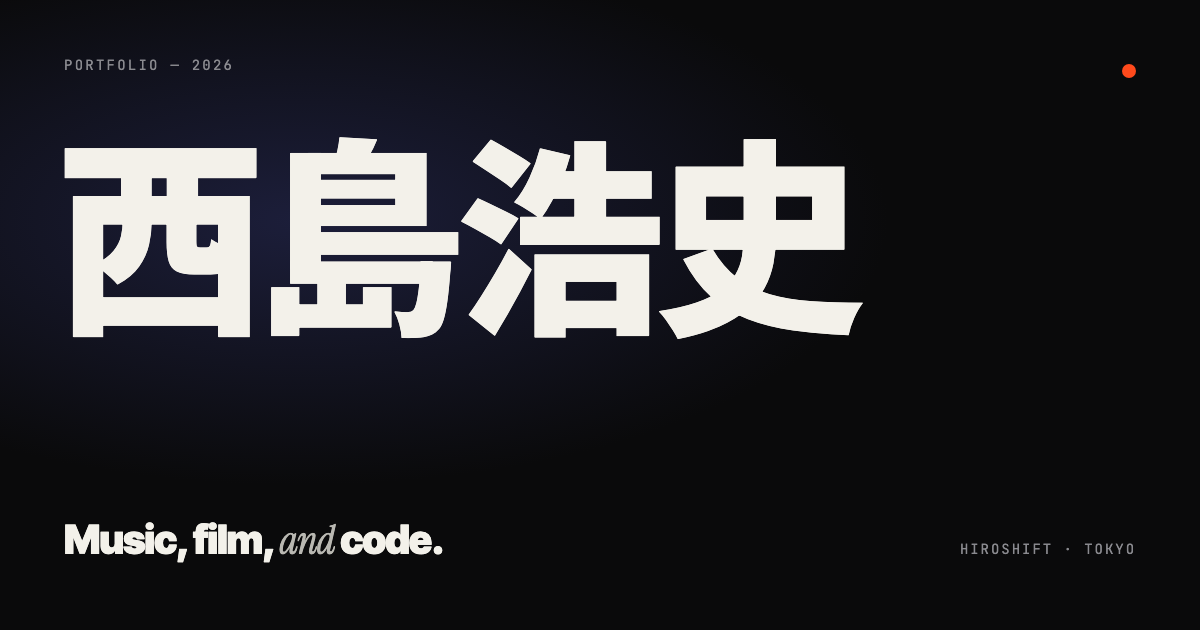
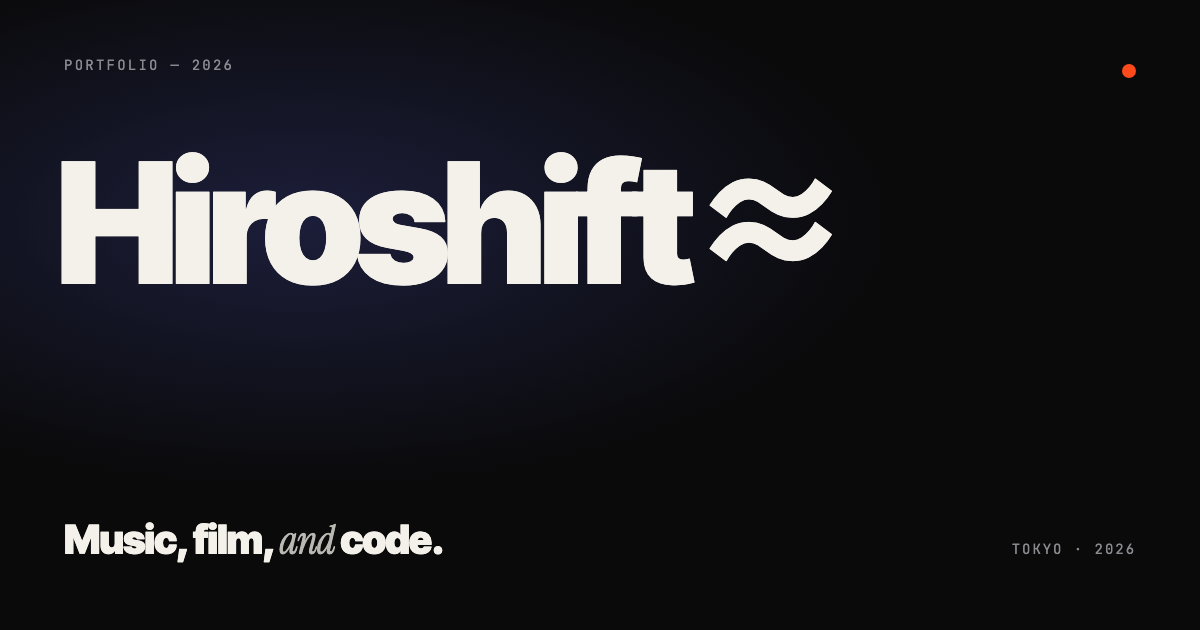
Hiroshift≈ 名義に統一・本名と顔写真を外す

Changed region(s): [[0.0308, 0.2111, 0.74, 0.5429], [0.8017, 0.8444, 0.9558, 0.8746]]

diff --git a/index.html b/index.html
@@ -3,12 +3,12 @@
 <head>
 <meta charset="UTF-8">
 <meta name="viewport" content="width=device-width, initial-scale=1.0, viewport-fit=cover">
-<title>西島浩史 — Hiroshift</title>
-<meta name="description" content="音楽、映像、そしてコード。西島浩史（Hiroshift）のポートフォリオ。AIプロトタイピングとWebアプリ開発、個人で作ってきたもの。">
+<title>Hiroshift≈</title>
+<meta name="description" content="音楽、映像、そしてコード。Hiroshift≈ のポートフォリオ。AIプロトタイピングとWebアプリ開発、個人で作ってきたもの。">
 <link rel="canonical" href="https://hiroshift.github.io/hiroshift-2026/">
 <meta property="og:type" content="website">
-<meta property="og:title" content="西島浩史 — Hiroshift">
-<meta property="og:description" content="音楽、映像、そしてコード。西島浩史（Hiroshift）のポートフォリオ。">
+<meta property="og:title" content="Hiroshift≈">
+<meta property="og:description" content="音楽、映像、そしてコード。Hiroshift≈ のポートフォリオ。">
 <meta property="og:url" content="https://hiroshift.github.io/hiroshift-2026/">
 <meta property="og:image" content="https://hiroshift.github.io/hiroshift-2026/assets/og.png">
 <meta property="og:image:width" content="1200"><meta property="og:image:height" content="630">
@@ -67,7 +67,7 @@ html.no-js .loader,html.reduce .loader{display:none}
 .hero .body{display:grid;align-content:end;padding-top:clamp(120px,18vh,200px);padding-bottom:clamp(28px,4vw,56px)}
 .hero .kicker{display:flex;gap:18px;align-items:center;color:var(--fog-2);margin-bottom:clamp(18px,2vw,28px)}
 .hero .kicker i{display:block;width:40px;height:1px;background:var(--fog)}
-.hero h1{font-family:var(--disp);font-size:clamp(64px,13.5vw,228px);line-height:.88;letter-spacing:-.045em;font-weight:900;display:flex;flex-wrap:wrap;column-gap:.12em}
+.hero h1{font-family:var(--disp);font-size:clamp(56px,11.5vw,200px);line-height:.88;letter-spacing:-.045em;font-weight:900;display:flex;flex-wrap:wrap;column-gap:.12em}
 .hero h1 .w{display:inline-flex;overflow:hidden;padding-bottom:.06em}
 .hero h1 .c{display:inline-block;transform:translateY(110%);transition:transform 1.1s var(--ease)}
 html.ready .hero h1 .c{transform:translateY(0)}
@@ -122,7 +122,7 @@ html.reduce .rv{opacity:1;transform:none;transition:none}
 .stmt .w{opacity:.14;transition:opacity .6s var(--ease)}
 .stmt .w.on{opacity:1}
 .portrait{position:relative;aspect-ratio:4/5;overflow:hidden;border-radius:4px;background:var(--paper-2)}
-.portrait img{width:100%;height:100%;object-fit:cover;filter:grayscale(1) contrast(1.08);mix-blend-mode:multiply}
+.portrait .mark{position:absolute;inset:0;display:grid;place-items:center;font-family:var(--disp);font-weight:900;font-size:clamp(200px,28vw,420px);line-height:1;letter-spacing:-.08em;color:var(--ink);transform:translateY(-4%)}
 .portrait:after{content:"";position:absolute;inset:0;background:linear-gradient(160deg,rgba(255,74,28,.18),transparent 55%);mix-blend-mode:multiply;pointer-events:none}
 .portrait .cap{position:absolute;left:16px;bottom:14px;font-family:var(--mono);font-size:10px;letter-spacing:.14em;text-transform:uppercase;color:var(--ink);opacity:.7}
 .tl{margin-top:clamp(40px,5vw,72px);border-top:1px solid var(--line-d)}
@@ -187,10 +187,10 @@ html.reduce *{animation:none!important;transition:none!important}
 <body>
 <div class="grain" aria-hidden="true"></div>
 <div class="cur" id="cur" aria-hidden="true"></div>
-<div class="loader" id="loader" aria-hidden="true"><span class="l">Hiroshift — Tokyo</span><span class="n" id="ln">00</span></div>
+<div class="loader" id="loader" aria-hidden="true"><span class="l">Hiroshift≈ — Tokyo</span><span class="n" id="ln">00</span></div>
 
 <header class="top">
-  <a class="brand" href="#top">Hiroshift</a>
+  <a class="brand" href="#top">Hiroshift≈</a>
   <nav aria-label="ページ内"><a href="#works">Works</a><a href="#about">About</a><a href="#services">Services</a><a href="#journal">Journal</a><a href="#contact">Contact</a></nav>
   <span class="clock" id="clock">Tokyo —:—</span>
 </header>
@@ -200,7 +200,7 @@ html.reduce *{animation:none!important;transition:none!important}
   <canvas id="gl" aria-hidden="true"></canvas>
   <div class="wrap body">
     <div class="kicker mono"><i></i><span>Portfolio — 2026</span></div>
-    <h1 aria-label="西島浩史"><span class="w" data-split>西島浩史</span></h1>
+    <h1 aria-label="Hiroshift≈"><span class="w" data-split>Hiroshift≈</span></h1>
     <div class="sub">
       <div class="en">Music, film, <em>and</em> code.<br><span class="roles" id="roles"><span class="on">AI prototyping</span><span>Web apps</span><span>Video</span><span>Songwriting</span></span></div>
       <p class="ja">ステージに立つ仕事から始まり、製造の現場を20年、映像の会社を一つ。いまは AI と一緒に、動くものを一人で作っています。ここは、個人で作ってきたものの置き場です。</p>
@@ -269,7 +269,7 @@ html.reduce *{animation:none!important;transition:none!important}
         </ul>
         <div class="skills rv"><span>Claude Code</span><span>Codex</span><span>Gemini</span><span>Dify</span><span>Python</span><span>JavaScript</span><span>Ruby on Rails</span><span>GAS</span><span>WebGL</span><span>Blender</span><span>Figma</span><span>Firebase</span><span>MySQL / PostgreSQL</span><span>AWS</span></div>
       </div>
-      <div class="portrait rv"><img src="assets/img/profile.webp" width="400" height="400" alt="西島浩史のポートレート" loading="lazy"><span class="cap">Hiroshi Nishijima — Tokyo</span></div>
+      <div class="portrait rv" aria-hidden="true"><span class="mark">≈</span><span class="cap">Hiroshift≈ — Tokyo</span></div>
     </div>
   </div>
 </section>
@@ -309,7 +309,7 @@ html.reduce *{animation:none!important;transition:none!important}
   </div>
 </section>
 </main>
-<footer><div class="wrap"><span>© 2026 Hiroshi Nishijima / Hiroshift</span><span>No framework · WebGL2 · Static</span><span id="ft-clock">—</span></div></footer>
+<footer><div class="wrap"><span>© 2026 Hiroshift≈</span><span>No framework · WebGL2 · Static</span><span id="ft-clock">—</span></div></footer>
 
 <dialog class="m" id="modal"><div class="box"><img id="mImg" src="" alt=""><div class="txt"><span class="tg" id="mTag"></span><h3 id="mTitle"></h3><p id="mDesc"></p><div class="ac"><a id="mOpen" href="#" target="_blank" rel="noopener">Open</a><button type="button" id="mClose">Close</button></div></div></div></dialog>
 

diff --git a/README.md b/README.md
@@ -1,4 +1,4 @@
-# 西島浩史 — Hiroshift（2026）
+# Hiroshift≈（2026）
 
 個人ポートフォリオ。素の HTML / CSS / JS と WebGL2（フレームワークなし・ビルドなし）。
 公開先想定＝ https://hiroshift.github.io/hiroshift-2026/
